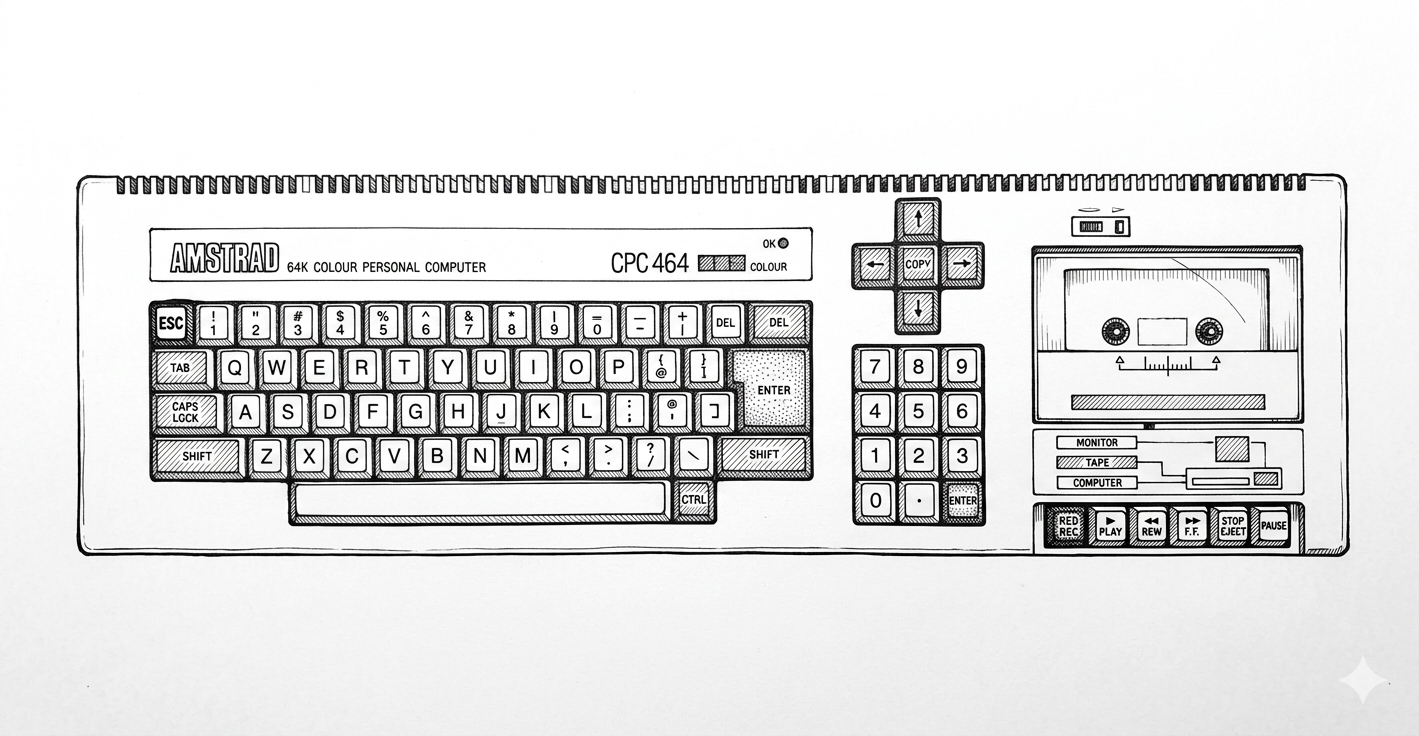
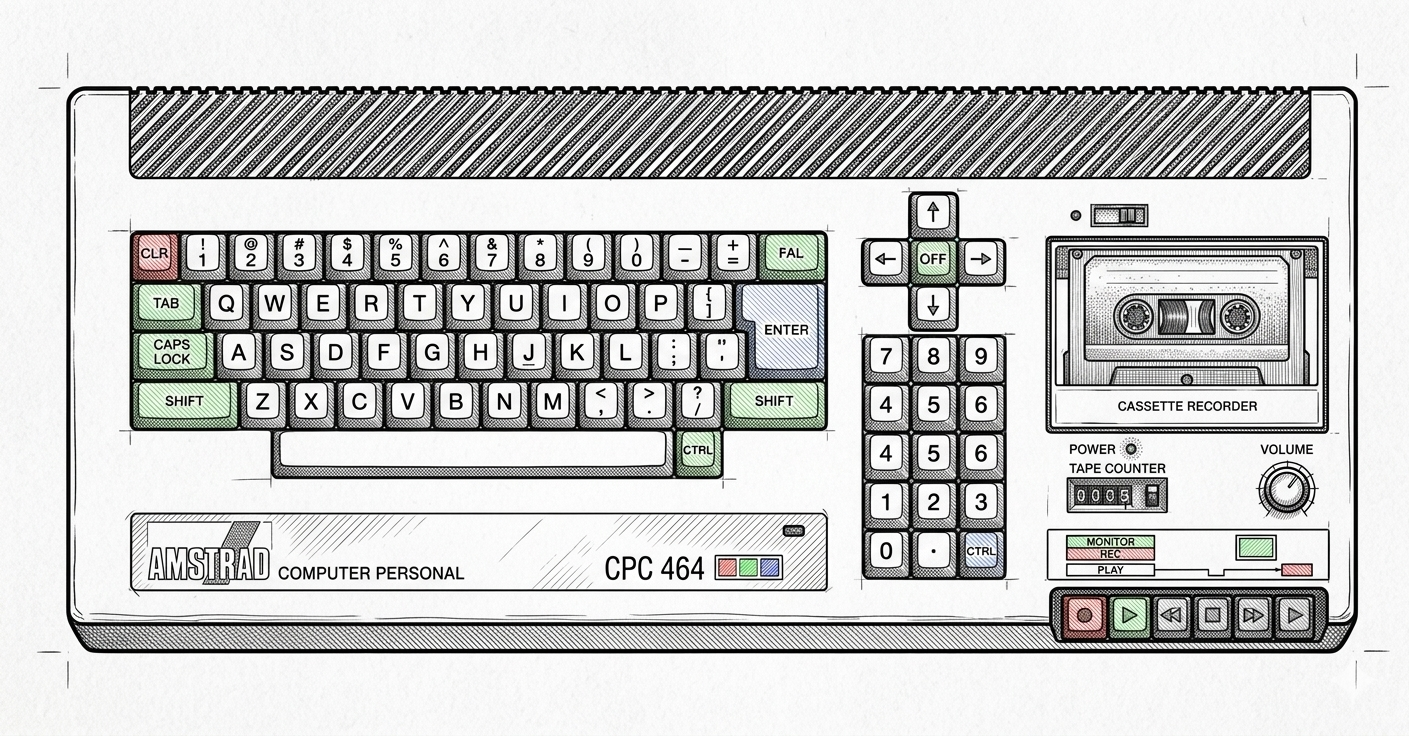
chore: updated after PR review

diff --git a/packages/plugins/chip-spectrum-128/tests/ay-chip.test.ts b/packages/plugins/chip-spectrum-128/tests/ay-chip.test.ts
@@ -72,6 +72,41 @@ describe('AyChipSimulator', () => {
     expect(levels.levelA).toBeLessThanOrEqual(10);
   });
 
+  test('tone-only channel gates with tone bit when noise is disabled (AND mixer)', () => {
+    chip.writeRegister(0, 2);
+    chip.writeRegister(1, 0);
+    chip.writeRegister(7, 0b111000);
+    chip.writeRegister(8, 10);
+
+    let sawZero = false;
+    let sawFull = false;
+    for (let i = 0; i < 500; i++) {
+      chip.step(1);
+      const { levelA } = chip.getOutputLevels();
+      if (levelA === 0) sawZero = true;
+      if (levelA === 10) sawFull = true;
+    }
+    expect(sawZero).toBe(true);
+    expect(sawFull).toBe(true);
+  });
+
+  test('noise-only channel gates with noise bit when tone is disabled (AND mixer)', () => {
+    chip.writeRegister(6, 1);
+    chip.writeRegister(7, 0b110111);
+    chip.writeRegister(8, 10);
+
+    let sawZero = false;
+    let sawFull = false;
+    for (let i = 0; i < 500; i++) {
+      chip.step(1);
+      const { levelA } = chip.getOutputLevels();
+      if (levelA === 0) sawZero = true;
+      if (levelA === 10) sawFull = true;
+    }
+    expect(sawZero).toBe(true);
+    expect(sawFull).toBe(true);
+  });
+
   test('noise LFSR starts at 1', () => {
     expect(chip.getNoiseLfsr()).toBe(1);
   });

diff --git a/packages/plugins/chip-spectrum-128/tests/channel-backend.test.ts b/packages/plugins/chip-spectrum-128/tests/channel-backend.test.ts
@@ -121,6 +121,37 @@ describe('env_bass buzz synthesis', () => {
     expect(intents.some((i: { envelopeShape?: number }) => i.envelopeShape === 10)).toBe(true);
   });
 
+  test('vol_env queues attenuation intent, not hardware envelope routing', () => {
+    const session = makeSession();
+    const backend = new AyChannelBackend(0, session);
+    backend.noteOn(440, { type: 'tone1', vol_env: [15, 10, 5, 0] } as any);
+    const intents = (session as any)._pendingIntents ?? [];
+    const last = intents[intents.length - 1];
+    expect(last.useEnvelope).toBe(false);
+    expect(last.attenuation).toBe(15);
+    expect(last.envelopePeriod).toBeUndefined();
+    expect(last.envelopeShape).toBeUndefined();
+
+    const frame = session.arbitrator.arbitrate(0, intents, session.prevRegs);
+    expect(frame.regs[8] & 0x10).toBe(0);
+    expect(frame.regs[8] & 0x0f).toBe(15);
+  });
+
+  test('env_bass still routes through hardware envelope on register intent', () => {
+    const session = makeSession();
+    const backend = new AyChannelBackend(2, session);
+    backend.noteOn(65.41, { type: 'tone3', env_bass: true } as any);
+    const intents = (session as any)._pendingIntents ?? [];
+    const last = intents[intents.length - 1];
+    expect(last.useEnvelope).toBe(true);
+    expect(last.attenuation).toBeUndefined();
+    expect(last.envelopePeriod).toBeDefined();
+    expect(last.envelopeShape).toBeDefined();
+
+    const frame = session.arbitrator.arbitrate(0, intents, session.prevRegs);
+    expect(frame.regs[10] & 0x10).toBe(0x10);
+  });
+
   test('buzz bass envelope period is much faster than one-step-per-tone', () => {
     const freq = 65.41;
     const fastPeriod = freqToBuzzBassEnvPeriod(freq);

diff --git a/packages/plugins/chip-spectrum-128/tests/audio-from-registers.test.ts b/packages/plugins/chip-spectrum-128/tests/audio-from-registers.test.ts
@@ -1,0 +1,28 @@
+import { renderFromRegisterLog } from '../src/audio-from-registers.js';
+import type { RegisterLogEntry } from '../src/register-log.js';
+
+function makeNoiseEntry(tick: number): RegisterLogEntry {
+  const regs = new Uint8Array(16);
+  regs[6] = 4;
+  regs[7] = 0b110111;
+  regs[8] = 12;
+  return { tick, regs };
+}
+
+describe('renderFromRegisterLog', () => {
+  test('noise rendering is deterministic across runs', () => {
+    const entries = [makeNoiseEntry(0), makeNoiseEntry(1), makeNoiseEntry(2)];
+    const first = renderFromRegisterLog(entries, 44100, 1_773_400);
+    const second = renderFromRegisterLog(entries, 44100, 1_773_400);
+    expect(first.length).toBeGreaterThan(0);
+    expect(Array.from(first)).toEqual(Array.from(second));
+  });
+
+  test('noise output is non-silent for a noise-only channel', () => {
+    const entries = [makeNoiseEntry(0)];
+    const pcm = renderFromRegisterLog(entries, 44100, 1_773_400);
+    let energy = 0;
+    for (let i = 0; i < pcm.length; i++) energy += Math.abs(pcm[i]);
+    expect(energy).toBeGreaterThan(0);
+  });
+});

diff --git a/packages/plugins/chip-spectrum-128/src/channel-backend.ts b/packages/plugins/chip-spectrum-128/src/channel-backend.ts
@@ -587,7 +587,8 @@ export class AyChannelBackend implements ChipChannelBackend {
       this.noisePeriod = undefined;
     }
 
-    // Envelope mode
+    // Envelope mode — only env_bass routes amplitude through R11–R13 hardware.
+    // vol_env is a software volume macro (same as renderAyNotePcm): write R8–R10 attenuation.
     this.envBass = !!instrument.env_bass;
     if (this.envBass) {
       this.envelopePeriod = freqToBuzzBassEnvPeriod(frequency);
@@ -597,16 +598,15 @@ export class AyChannelBackend implements ChipChannelBackend {
       this.amplitude = instrument.vol !== undefined
         ? volToAmplitude(Number(instrument.vol))
         : 15;
-    } else if (instrument.vol_env !== undefined) {
-      this.useEnvelope = true;
-      this.envelopePeriod = undefined;
-      this.envelopeShape = 8;
-      this.amplitude = 0;
     } else if (instrument.vol !== undefined) {
       this.useEnvelope = false;
+      this.envelopePeriod = undefined;
+      this.envelopeShape = undefined;
       this.amplitude = volToAmplitude(Number(instrument.vol));
     } else {
       this.useEnvelope = false;
+      this.envelopePeriod = undefined;
+      this.envelopeShape = undefined;
       this.amplitude = 10;
     }
 
@@ -689,8 +689,8 @@ export class AyChannelBackend implements ChipChannelBackend {
       toneEnable: this.toneEnable,
       noiseEnable: this.noiseEnable,
       noisePeriod: this.noisePeriod,
-      useEnvelope: this.useEnvelope,
-      attenuation: this.useEnvelope ? undefined : this.amplitude,
+      useEnvelope: this.envBass,
+      attenuation: this.envBass ? undefined : this.amplitude,
       envelopePeriod: this.envBass ? this.envelopePeriod : undefined,
       envelopeShape: this.envBass ? this.envelopeShape : undefined,
       source: { channel: this.channel },

diff --git a/packages/plugins/chip-spectrum-128/src/audio-from-registers.ts b/packages/plugins/chip-spectrum-128/src/audio-from-registers.ts
@@ -9,6 +9,7 @@
  * derived from R8–R10 (fixed attenuation or hardware envelope routing).
  */
 import { AyChipSimulator } from './ay-chip.js';
+import { ayNoiseBit } from './ay-noise.js';
 import { AY_BUZZ_BASS_LOUDNESS_COMPENSATION } from './periodTables.js';
 import type { RegisterLogEntry } from './register-log.js';
 
@@ -90,7 +91,8 @@ export function renderFromRegisterLog(
           const squareOut = phase[ch] < 1 ? 1.0 : -1.0;
           sample += squareOut * (amp / 15) * CHANNEL_GAIN;
         } else if (!noiseOff) {
-          sample += (Math.random() * 2 - 1) * (amp / 15) * CHANNEL_GAIN;
+          const noiseSign = ayNoiseBit(chip.getNoiseLfsr()) ? 1 : -1;
+          sample += noiseSign * (amp / 15) * CHANNEL_GAIN;
         }
       }
 

diff --git a/packages/plugins/chip-spectrum-128/src/ay-chip.ts b/packages/plugins/chip-spectrum-128/src/ay-chip.ts
@@ -169,11 +169,11 @@ export class AyChipSimulator {
       const toneOff  = (mixer >> ch) & 1;        // 1 = disabled
       const noiseOff = (mixer >> (ch + 3)) & 1;  // 1 = disabled
 
+      // Mixer AND gate: disabled sources are constant 1; enabled sources pass generator bits.
       const toneOut  = toneOff  ? 1 : this.toneBit[ch];
       const noiseOut = noiseOff ? 1 : this.noiseBit;
 
-      // Output is active when EITHER tone OR noise is high
-      const active = (toneOut | noiseOut) !== 0;
+      const active = (toneOut & noiseOut) !== 0;
       if (!active) continue;
 
       const amplitude = envMode ? envLevel : fixedLevel;

diff --git a/packages/engine/src/index.ts b/packages/engine/src/index.ts
@@ -24,5 +24,5 @@ export { ChipRegistry, chipRegistry, gameboyPlugin, getSongValidationIssues } fr
 export type { ExporterPlugin, ExportOptions, ExporterUIContribution } from './export/types.js';
 export { ExporterRegistry, exporterRegistry } from './export/registry.js';
 export { BeatBaxEngine } from './engine.js';
-export { resolveSong, resolveSongAsync } from './song/index.js';
+export { resolveSong, resolveSongAsync } from './song/index.browser.js';
 export type { SongModel, ChannelModel, ChannelEvent } from './song/songModel.js';